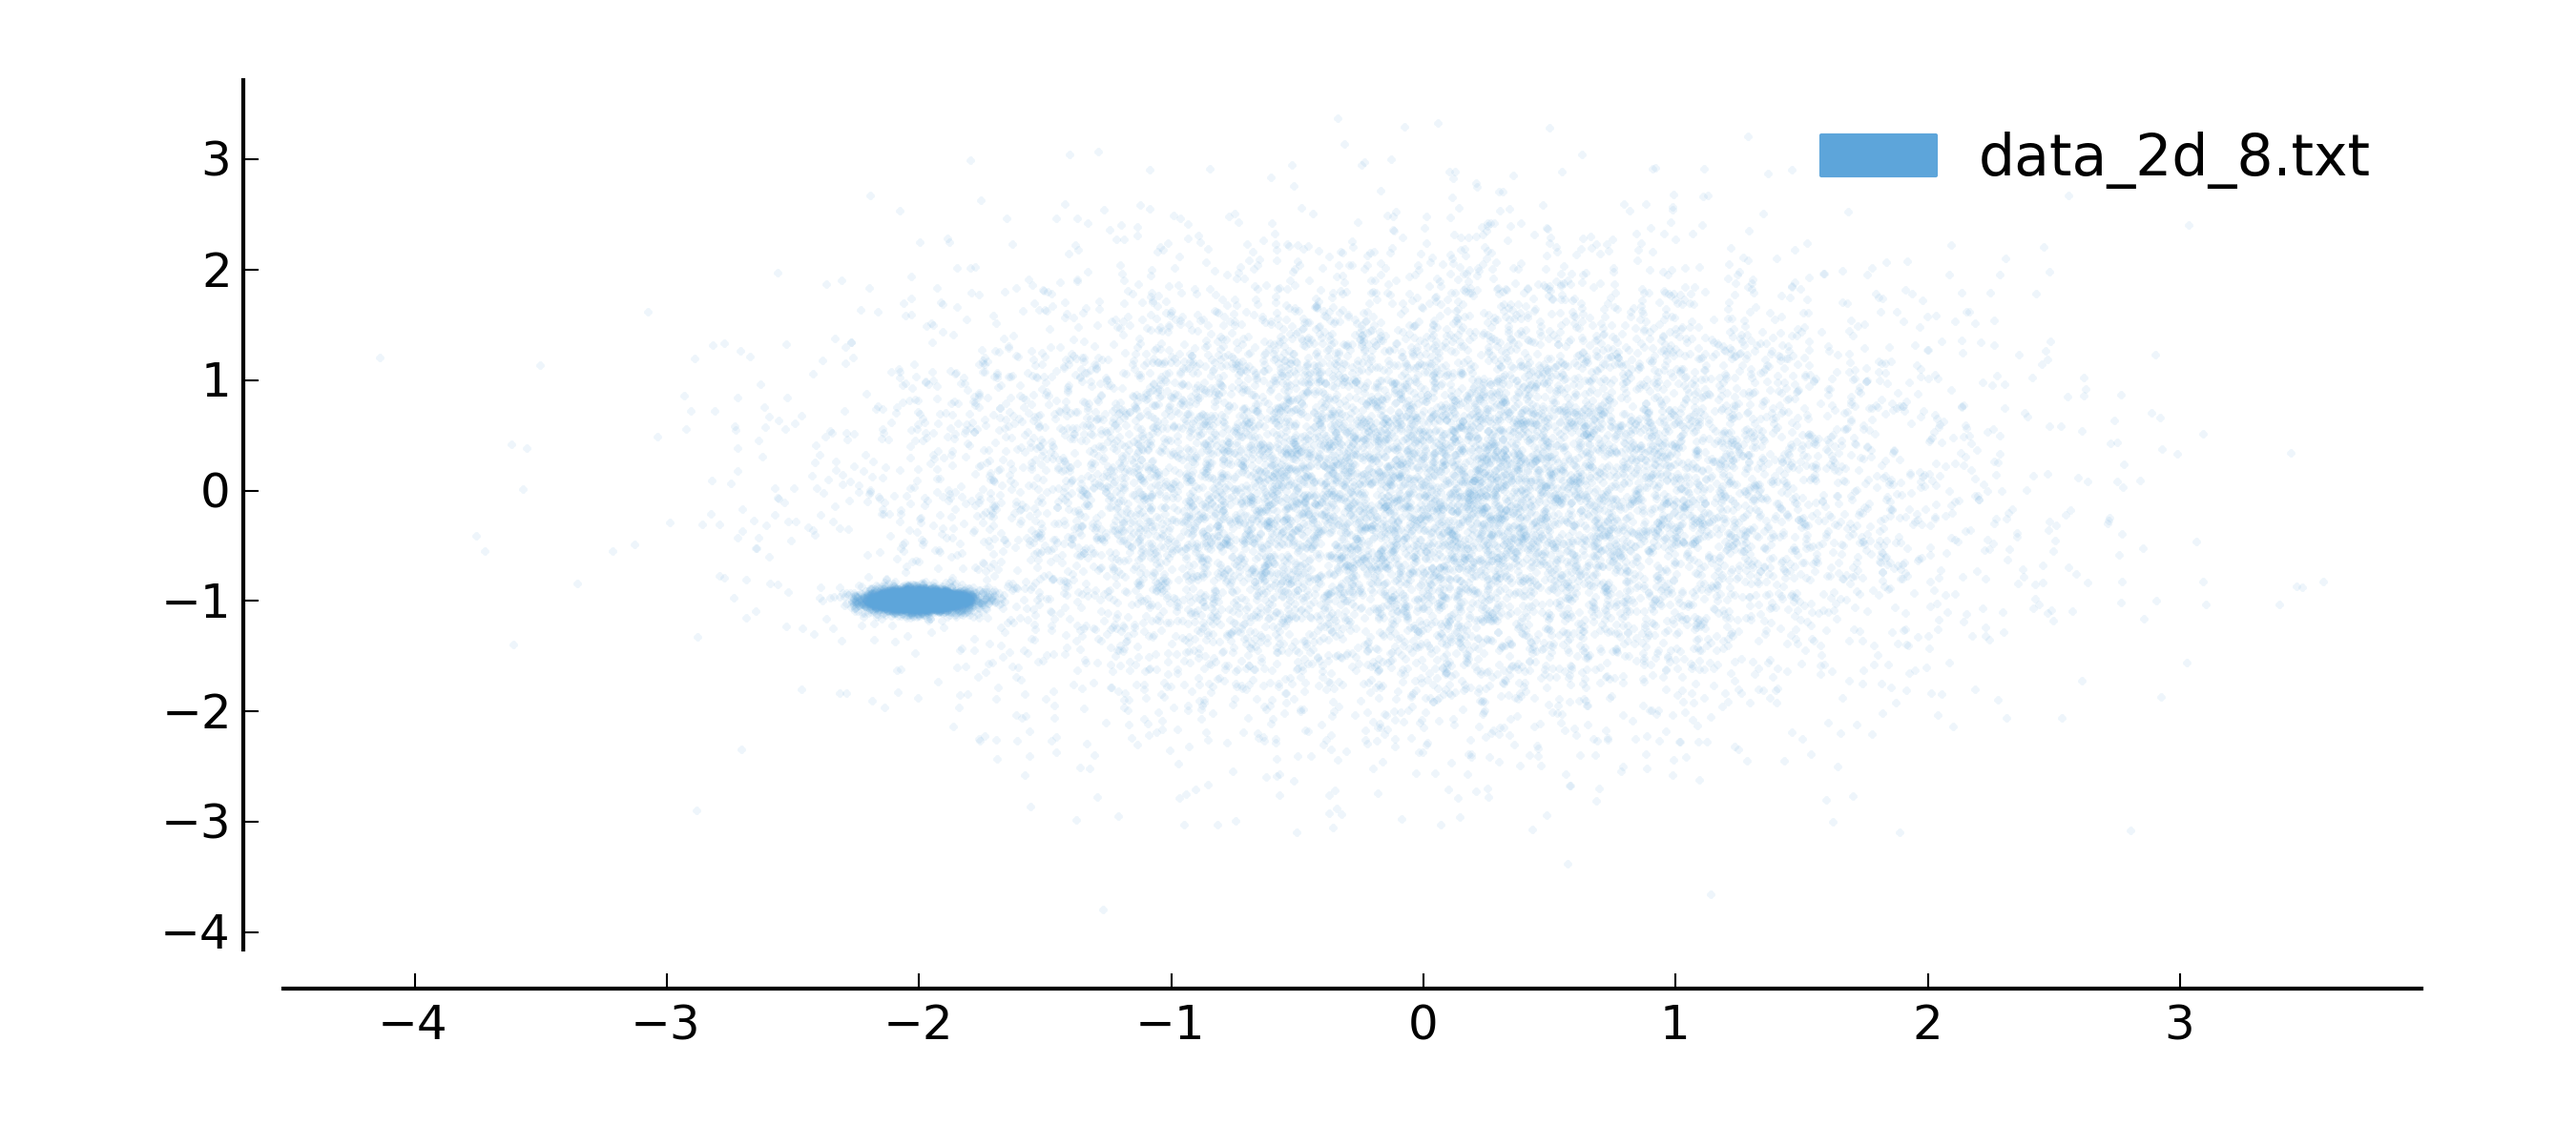
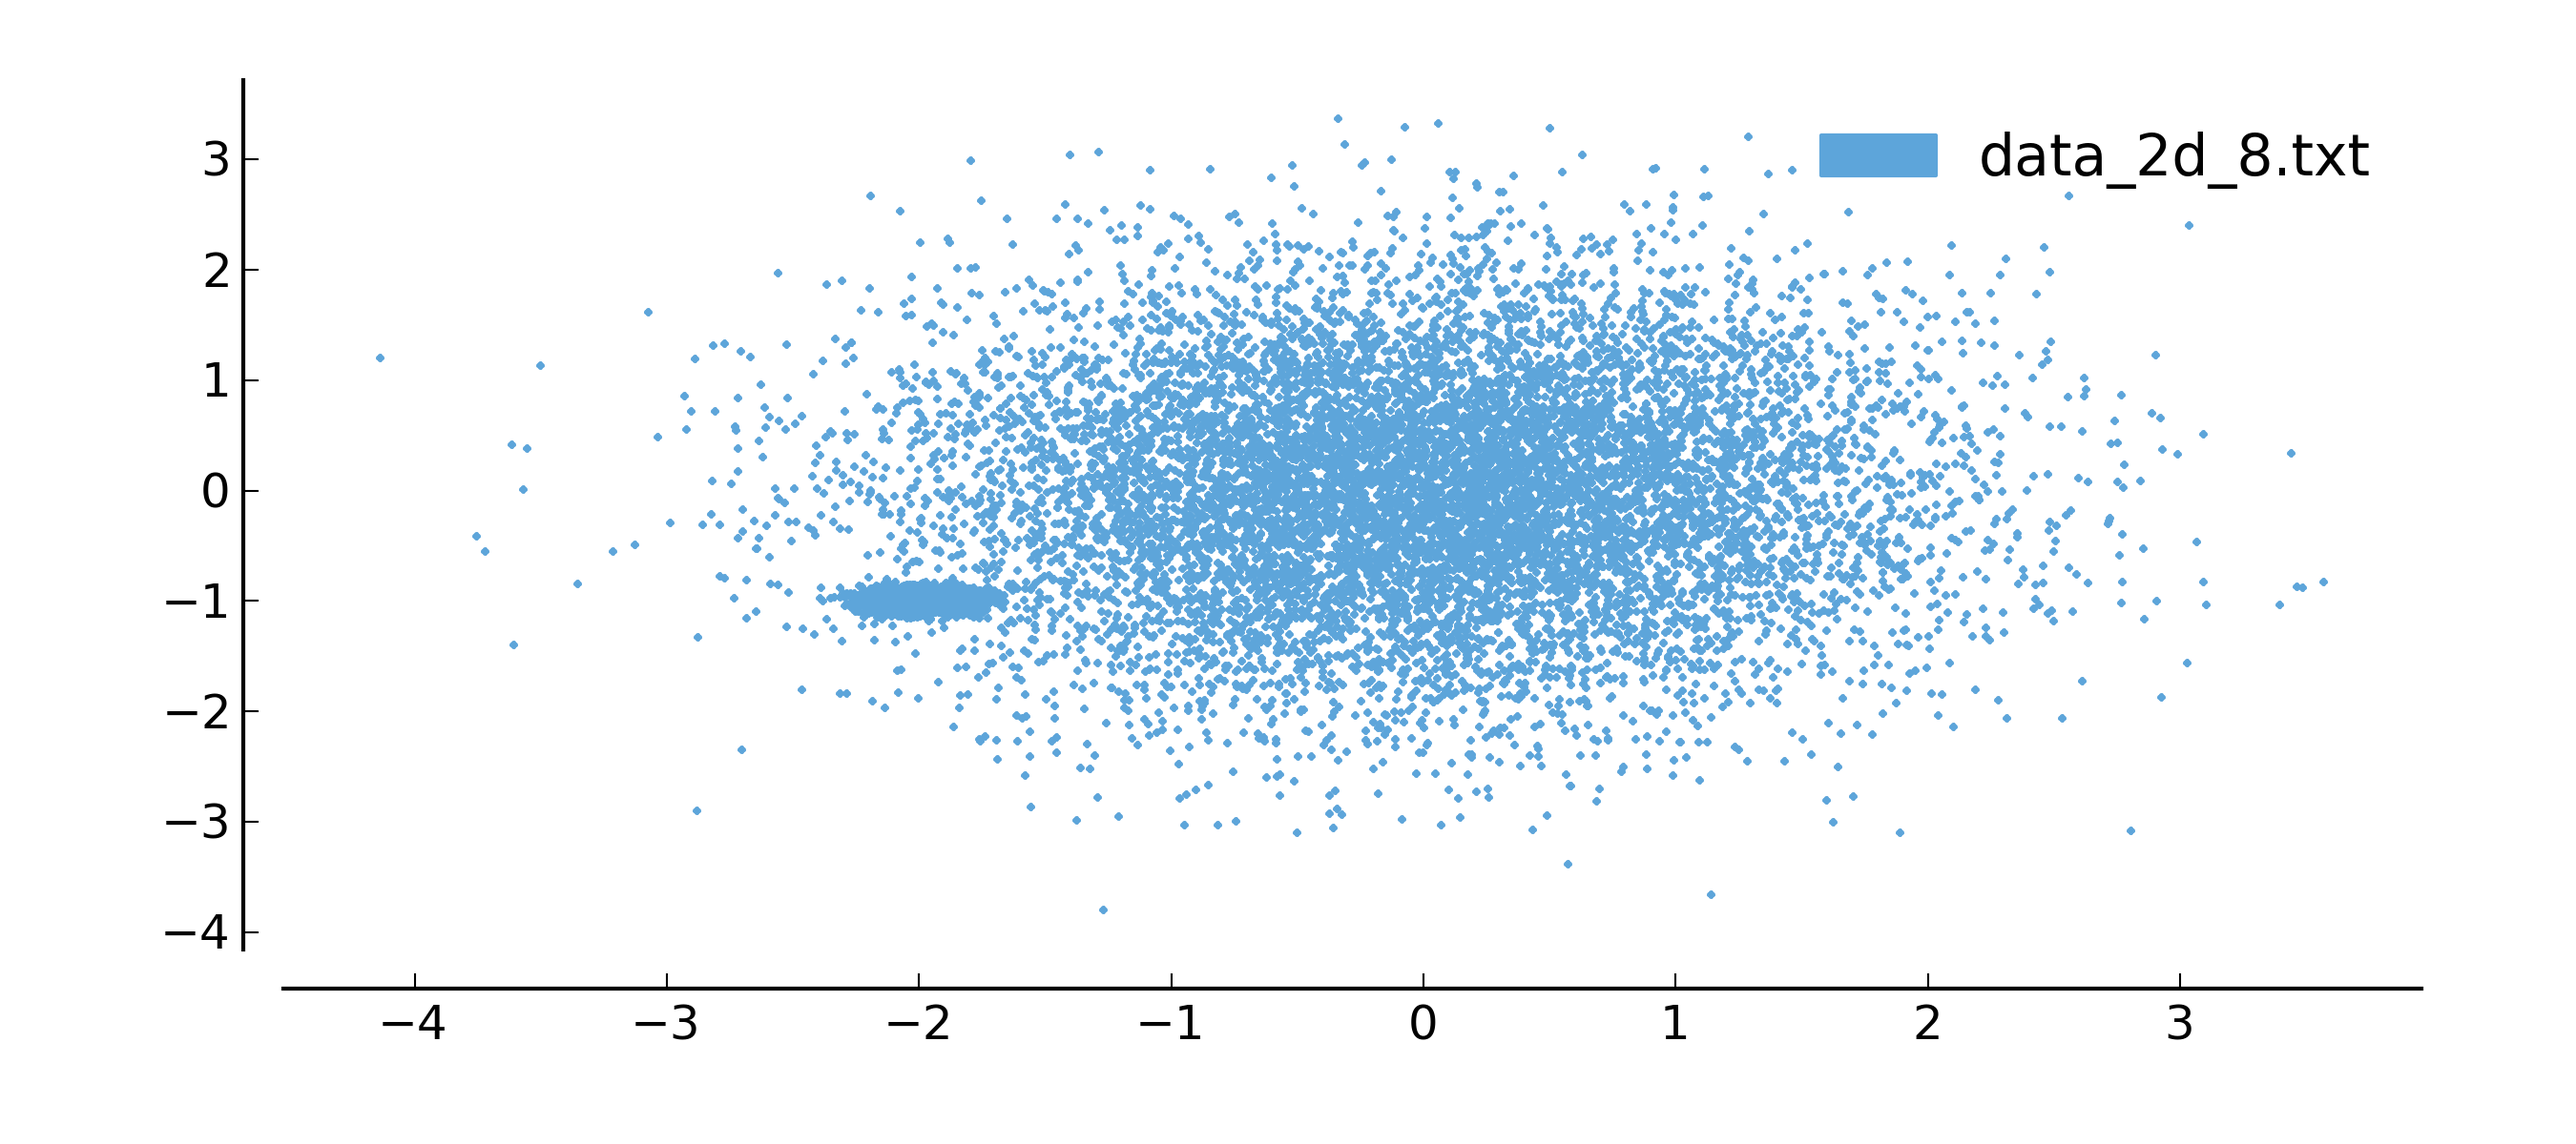
new exmple image

Changed region(s): [[0.28, 0.1542, 0.8089, 0.7092], [0.4044, 0.6475, 0.4356, 0.6783]]

diff --git a/README.md b/README.md
@@ -112,8 +112,14 @@ The input file may contain comment lines (lines that start with #). Files may co
 
 ![Example image](https://github.com/dentearl/quick_plot/raw/master/img/example_09.png)
 
-### Plotting 2D data as scatter plot with alpha transparency, two files.
+### Plotting 2D data as scatter plot, one file.
 
-    bin/quick_plot example/data_2d_8.txt --mode scatter --alpha 0.1 --out_format png --out img/example_10.png
+    bin/quick_plot example/data_2d_8.txt --mode scatter --out_format png --out img/example_10.png
 
 ![Example image](https://github.com/dentearl/quick_plot/raw/master/img/example_10.png)
+
+### Plotting 2D data as scatter plot with alpha transparency, one file.
+
+    bin/quick_plot example/data_2d_8.txt --mode scatter --alpha 0.1 --out_format png --out img/example_11.png
+
+![Example image](https://github.com/dentearl/quick_plot/raw/master/img/example_11.png)
